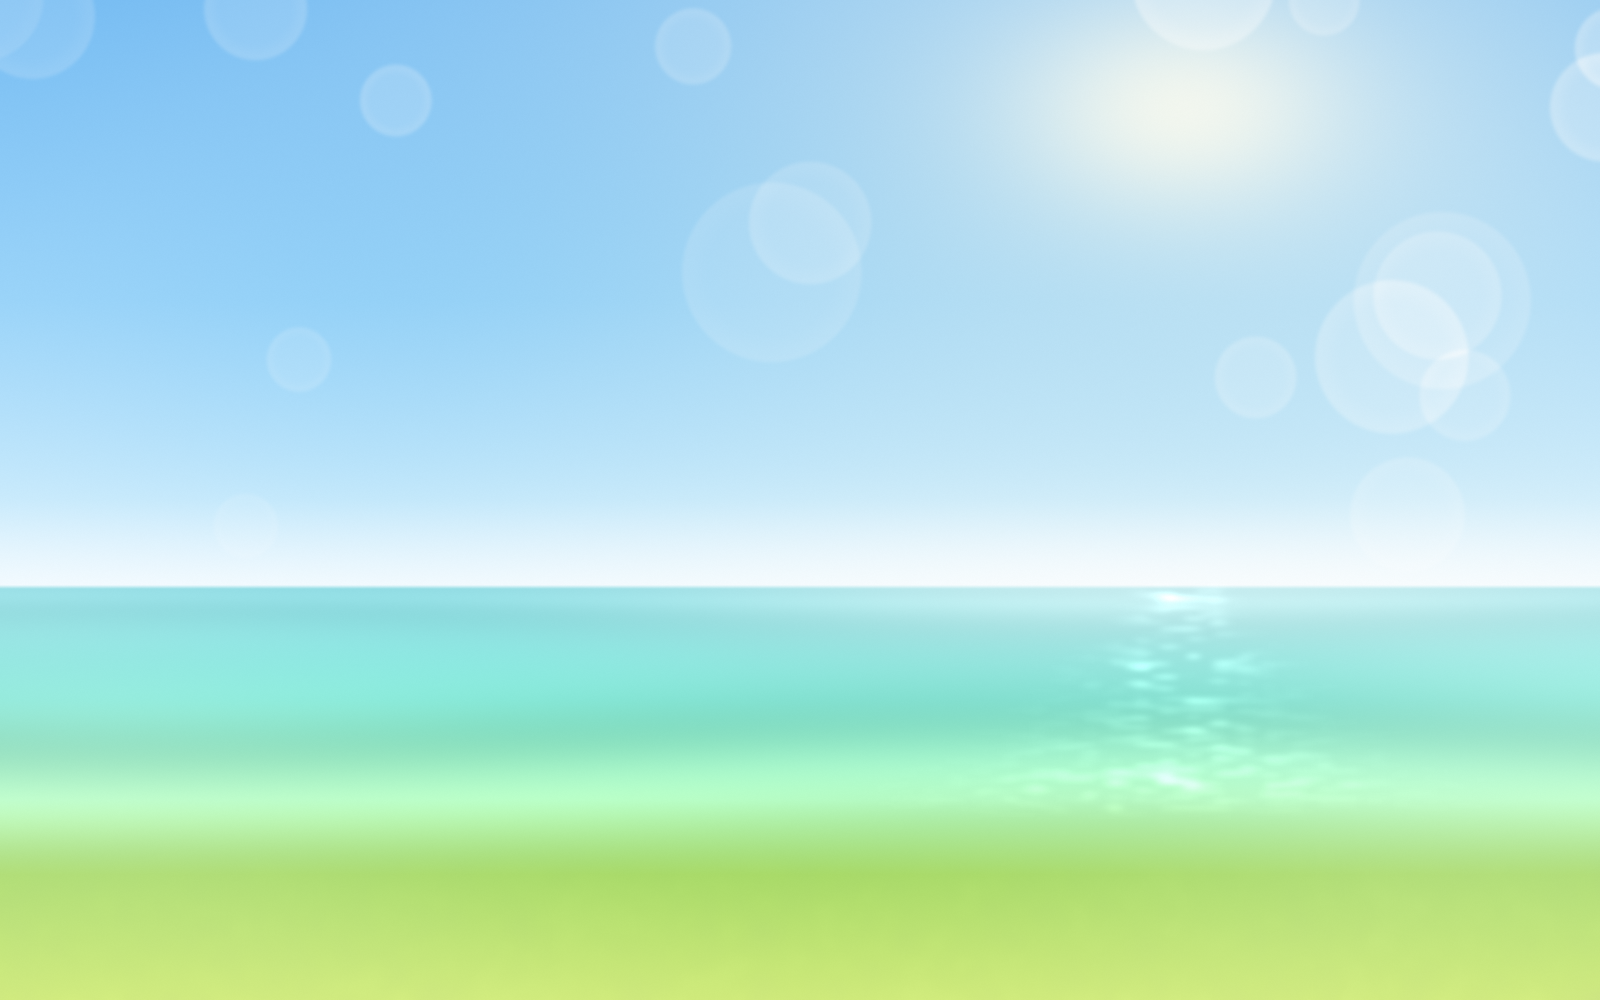
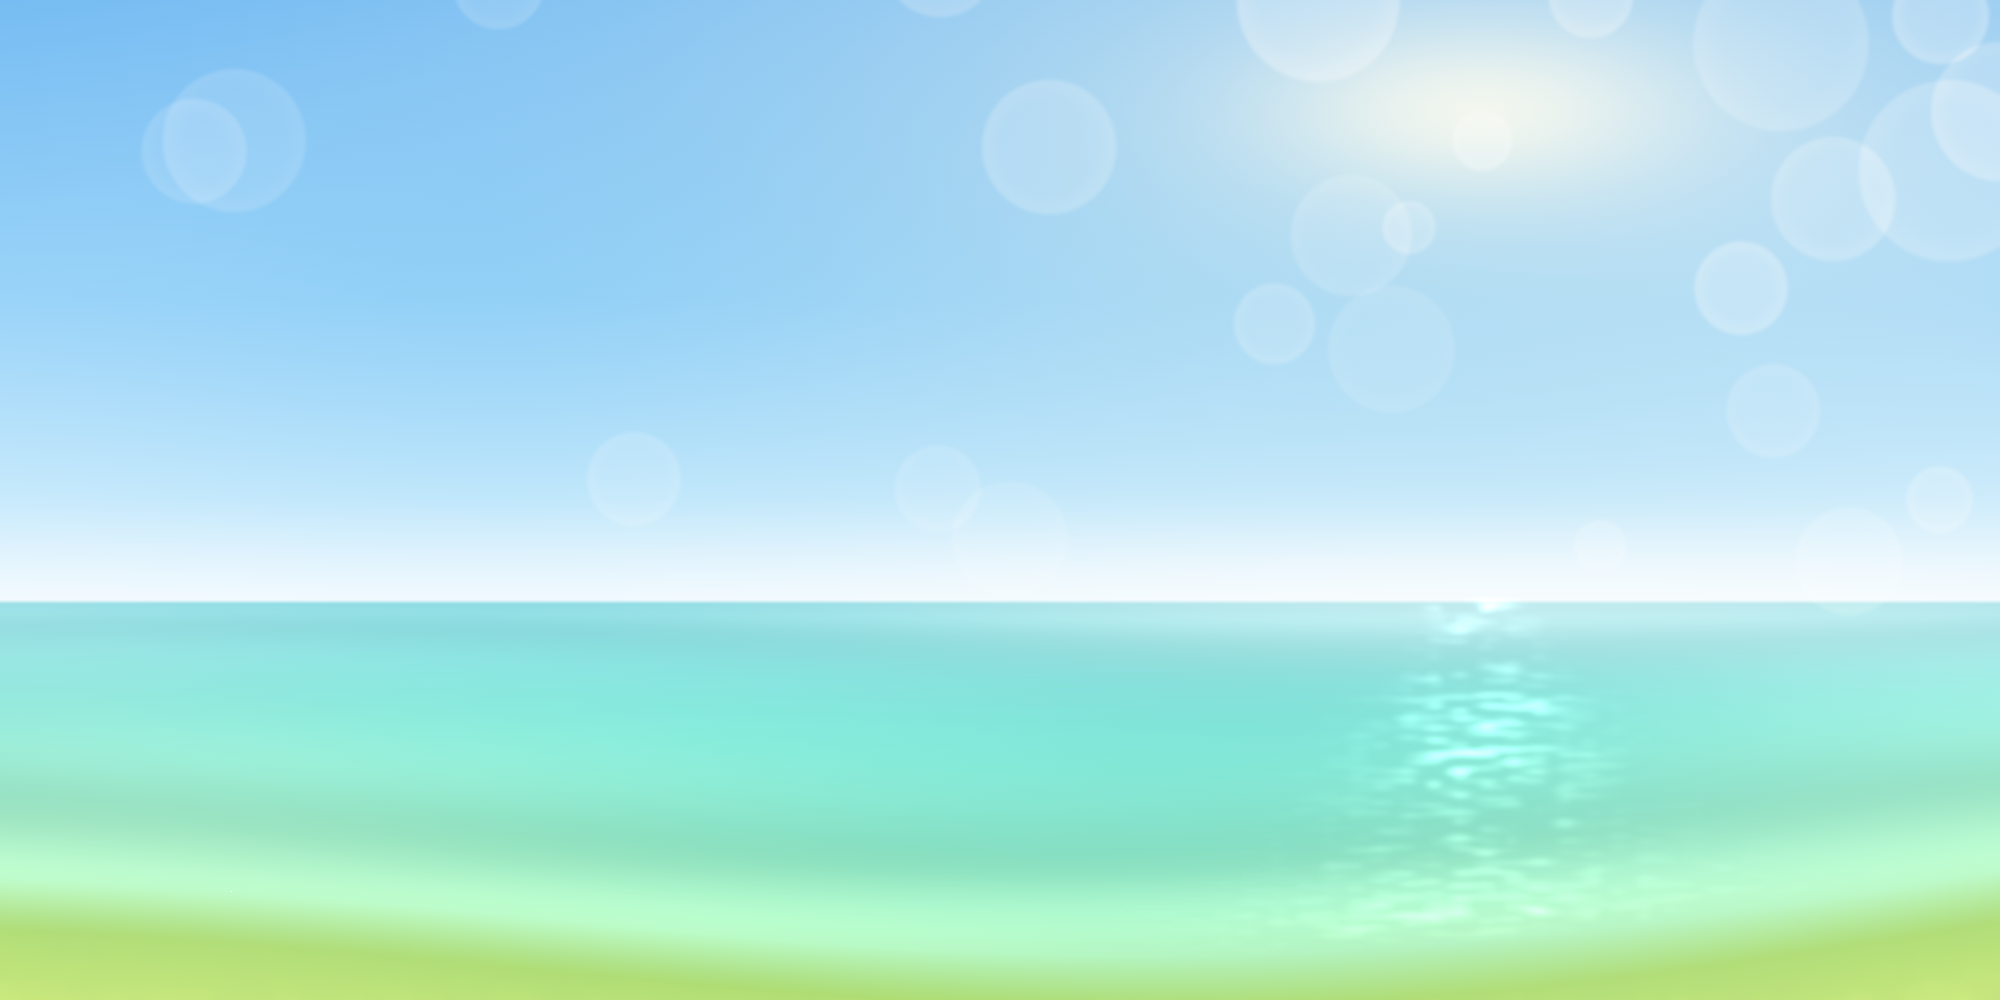
fix(tema): a margem do Aquario caia no meio do conteudo
A tira de degrade acima da barra de reproducao nao era componente de interface
nenhum: era a margem do proprio `fundo.png`, e duas coisas a colocavam ali.

**A proporcao.** `image-fit: cover` corta o eixo que sobra. A imagem era 1600x1000
(1.6:1); numa janela maximizada de 1919x1030 (1.86:1) o `cover` escala por
largura e come 169px em cima e embaixo, o que empurra a margem de y=676 -- onde
foi desenhada, na janela padrao -- para y=929, colada na barra de reproducao, com
a faixa de transicao cortada pela metade. A imagem passa a ser 2:1: qualquer
janela mais estreita que isso escala por ALTURA e recebe a composicao vertical
inteira. O que sobra e corte lateral, e cortar lateralmente uma cena uniforme na
horizontal nao custa nada. Medido: corte vertical zero tanto em 1919x1030 quanto
em 1220x800, contra 169px antes.

**A forma.** Mesmo no lugar certo, uma linha horizontal atravessando a largura
inteira nao le como praia -- le como componente fora do lugar. Horizonte reto
esta certo, porque horizonte e reto; praia reta nao existe. A margem passa a ser
curva, por uma coordenada vertical deformada com peso zero no horizonte e um na
margem, de modo que so a agua rasa e a praia entortam.

**Um defeito separado, no mesmo pedaco de tela.** O `ScrollFade` fecha o degrade
na cor que recebe em `base`, quase sempre `Theme.background`. Num tema de cor
chapada isso e verdade; num tema com `background.image` e mentira, porque quem
[…]

diff --git a/tools/fundo-aquario.py b/tools/fundo-aquario.py
@@ -39,15 +39,26 @@ import math
 import numpy as np
 from PIL import Image, ImageFilter
 
-W, H = 1600, 1000
+# 2:1, e nao 16:10.
+#
+# `image-fit: cover` corta o eixo que sobra. Com 1600x1000 (1.6:1) uma janela
+# maximizada de 1919x1030 (1.86:1) escala por largura e come 169px em cima e
+# embaixo -- o que empurra a margem para y=929, bem no meio do conteudo, e a
+# faixa de transicao sai cortada pela barra de reproducao. Na tela isso nao le
+# como praia: le como um degrade solto que parou no lugar errado.
+#
+# Numa imagem 2:1 qualquer janela mais estreita que isso escala por ALTURA, e a
+# composicao vertical chega inteira. O que sobra e corte lateral, e cortar
+# lateralmente uma cena que e uniforme na horizontal nao custa nada.
+W, H = 2000, 1000
 
 # Fonte de luz unica. Tudo nesta imagem obedece a ela: o bloom do ceu, o
 # caminho de brilho na agua, a direcao de cada especular, o lado de cada
 # sombra de contato e a densidade do bokeh.
 SOL = np.array([0.74, 0.11])
 
-HORIZONTE = 0.585  # onde o ceu encontra a agua
-MARGEM = 0.845  # onde a agua encontra a grama
+HORIZONTE = 0.600  # onde o ceu encontra a agua
+MARGEM = 0.880  # onde a agua encontra a grama
 
 # O piso de contraste, calculado em vez de chutado.
 #
@@ -83,6 +94,19 @@ def borrar(campo, raio):
     return np.asarray(img).astype(np.float32) / 255.0
 
 
+# A margem e CURVA, e isso conserta um defeito de leitura, nao de realismo.
+#
+# Horizonte reto esta certo -- horizonte e reto. Mas praia reta nao existe, e uma
+# linha horizontal atravessando a largura inteira logo acima da barra de
+# reproducao nao le como praia: le como componente da interface fora do lugar. A
+# curva resolve dizendo "isto e paisagem" antes de o olho perguntar.
+#
+# O deslocamento entra por uma coordenada vertical deformada, com peso zero no
+# horizonte e um na margem: assim o horizonte continua reto e so a agua rasa e a
+# praia entortam junto.
+desloc = 0.085 * np.sin(u * 2.1 + 0.7) + 0.028 * np.sin(u * 5.3 - 1.9)
+vw = v - desloc * suavizar(HORIZONTE, MARGEM, v)
+
 # ---------------------------------------------------------------------------
 # 1. A cena: ceu, agua rasa, grama ao sol
 # ---------------------------------------------------------------------------
@@ -97,8 +121,8 @@ PARADAS = [
     (HORIZONTE, (0.925, 0.973, 1.000)),  # bruma do horizonte, quase branco
     (HORIZONTE + 0.004, (0.400, 0.812, 0.855)),  # a agua comeca -- degrau
     (0.700, (0.478, 0.878, 0.812)),
-    (MARGEM - 0.045, (0.639, 0.925, 0.702)),  # a agua vira verde ao chegar na margem
-    (MARGEM + 0.030, (0.639, 0.847, 0.373)),  # grama -- a espuma da margem dilui o degrau
+    (MARGEM - 0.030, (0.639, 0.925, 0.702)),  # a agua vira verde ao chegar na margem
+    (MARGEM + 0.022, (0.639, 0.847, 0.373)),  # grama -- a espuma da margem dilui o degrau
     (1.000, (0.784, 0.906, 0.404)),
 ]
 
@@ -106,8 +130,8 @@ cena = np.zeros((H, W, 3), np.float32)
 for i in range(len(PARADAS) - 1):
     t0, c0 = PARADAS[i]
     t1, c1 = PARADAS[i + 1]
-    faixa = (v >= t0) & (v <= t1)
-    k = np.where(faixa, (v - t0) / max(t1 - t0, 1e-6), 0.0)
+    faixa = (vw >= t0) & (vw <= t1)
+    k = np.where(faixa, (vw - t0) / max(t1 - t0, 1e-6), 0.0)
     for c in range(3):
         cena[:, :, c] += np.where(faixa, c0[c] + (c1[c] - c0[c]) * k, 0.0)
 
@@ -157,12 +181,12 @@ cena = cena + (nuv * 0.30)[:, :, None] * (1.0 - cena)
 # versao anterior) o fim das ondas deixava uma emenda reta atravessando a
 # imagem inteira, logo acima da grama -- e emenda reta e a unica coisa que nao
 # pode existir num campo que so tem formas moles.
-agua = suavizar(HORIZONTE - 0.002, HORIZONTE + 0.010, v) * (1.0 - suavizar(MARGEM - 0.055, MARGEM + 0.020, v))
-prof = np.clip((v - HORIZONTE) / (MARGEM - HORIZONTE), 0, 1)  # 0 longe, 1 perto
+agua = suavizar(HORIZONTE - 0.002, HORIZONTE + 0.010, vw) * (1.0 - suavizar(MARGEM - 0.055, MARGEM + 0.020, vw))
+prof = np.clip((vw - HORIZONTE) / (MARGEM - HORIZONTE), 0, 1)  # 0 longe, 1 perto
 
 freq = 6.0 + 190.0 * (1.0 - prof) ** 2.4
-fase = np.sin(freq * (v - HORIZONTE) + 0.9 * np.sin(u * 5.0 + 1.3))
-fase2 = np.sin(freq * 0.43 * (v - HORIZONTE) - 1.2 * np.sin(u * 3.1 - 0.6))
+fase = np.sin(freq * (vw - HORIZONTE) + 0.9 * np.sin(u * 5.0 + 1.3))
+fase2 = np.sin(freq * 0.43 * (vw - HORIZONTE) - 1.2 * np.sin(u * 3.1 - 0.6))
 ondas = (fase * 0.62 + fase2 * 0.38) * (0.030 + 0.105 * prof) * suavizar(0.0, 0.08, prof)
 ondas = ondas * agua
 
@@ -194,7 +218,7 @@ esticado = np.asarray(
     Image.fromarray((grade * 255).astype(np.uint8), "L").resize((W, H), Image.BICUBIC)
 ).astype(np.float32) / 255.0
 lasca = np.clip((esticado - 0.62) * 3.0, 0.0, 1.0)
-lasca *= 0.35 + 0.65 * np.clip(np.sin(freq * (v - HORIZONTE)), 0, 1)  # so nas cristas
+lasca *= 0.35 + 0.65 * np.clip(np.sin(freq * (vw - HORIZONTE)), 0, 1)  # so nas cristas
 # O brilho morre antes da margem: lasca de luz sobre grama le como grama seca.
 cintilar = lasca * caminho * (0.45 + 0.45 * (1.0 - prof)) * agua
 cintilar *= 1.0 - suavizar(0.72, 0.92, prof)
@@ -212,7 +236,7 @@ cena = cena + (ondas + cintilar * 0.85)[:, :, None] * np.array([1.0, 1.0, 0.96],
 grama = borrar(rng.random((H, W)).astype(np.float32), 22.0)
 grama += borrar(rng.random((H, W)).astype(np.float32), 7.0) * 0.55
 grama = (grama - grama.mean()) * 3.4
-mask_g = suavizar(MARGEM - 0.02, MARGEM + 0.07, v)
+mask_g = suavizar(MARGEM - 0.02, MARGEM + 0.07, vw)
 cena[:, :, 0] += grama * 0.055 * mask_g
 cena[:, :, 1] += grama * 0.080 * mask_g
 cena[:, :, 2] -= grama * 0.045 * mask_g
@@ -308,9 +332,24 @@ cena = np.clip(cena, 0.0, 1.0)
 vin = suavizar(0.45, 1.15, np.sqrt(((u - 0.5) * 1.05) ** 2 + ((v - 0.5) * 0.95) ** 2) * 2)
 cena = cena + vin[:, :, None] * (1.0 - cena) * 0.16
 
-# Grao fino. Existe por um motivo tecnico, nao estetico: degrade suave em 8 bits
-# faz banda visivel, e um grao de meio nivel quebra a banda sem aparecer.
-cena += (rng.random((H, W, 1)).astype(np.float32) - 0.5) * (1.6 / 255.0)
+# Dither ordenado (Bayer 8x8). Existe por um motivo tecnico, nao estetico: o
+# degrade do ceu percorre ~600px com 146 niveis de 8 bits, o que da um degrau
+# visivel a cada 4px. Um deslocamento de meio nivel antes do arredondamento
+# quebra a banda sem aparecer.
+#
+# Ordenado, e nao aleatorio: os dois resolvem a banda igual, mas ruido aleatorio
+# e incompressivel e custava 767KB de PNG. A matriz de Bayer se repete a cada 8
+# pixels nos dois eixos, e os filtros do PNG comem periodicidade.
+bayer = np.array([[0, 32, 8, 40, 2, 34, 10, 42],
+                  [48, 16, 56, 24, 50, 18, 58, 26],
+                  [12, 44, 4, 36, 14, 46, 6, 38],
+                  [60, 28, 52, 20, 62, 30, 54, 22],
+                  [3, 35, 11, 43, 1, 33, 9, 41],
+                  [51, 19, 59, 27, 49, 17, 57, 25],
+                  [15, 47, 7, 39, 13, 45, 5, 37],
+                  [63, 31, 55, 23, 61, 29, 53, 21]], np.float32)
+bayer = (bayer / 64.0 - 0.5) * (1.4 / 255.0)
+cena += np.tile(bayer, (H // 8 + 1, W // 8 + 1))[:H, :W, None]
 
 cena = np.clip(cena, 0.0, 1.0)
 
